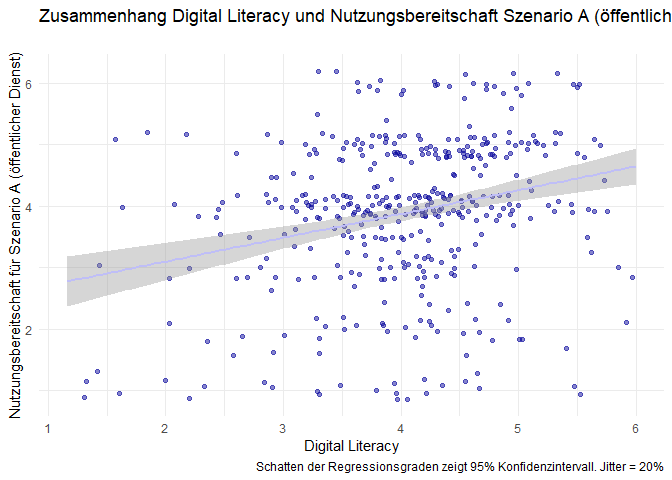
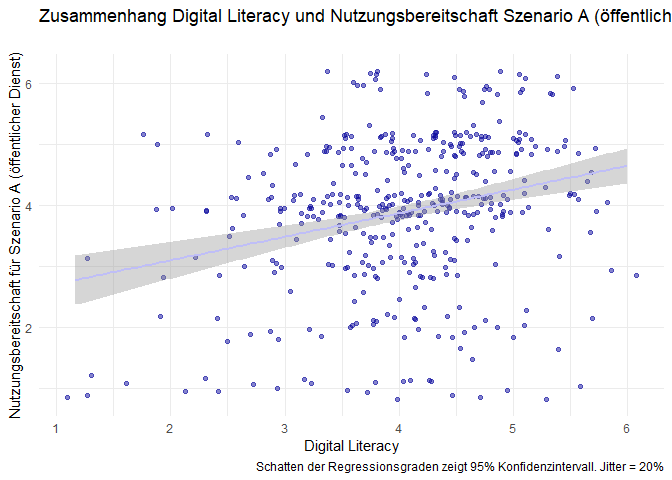
farben für präse geändert

diff --git a/readme.md b/readme.md
@@ -149,6 +149,8 @@ Dienst) höher, als bei Szenario B (privatwirtschaftliche Zwecke).
 
 ![](readme_files/figure-markdown_strict/unnamed-chunk-9-1.png)
 
+    ## NULL
+
 #### Unterschiedshypothese für MANOVA
 
 **H1:** LandbewohnerInnen und StadtbewohnerInnen unterscheiden sich in
